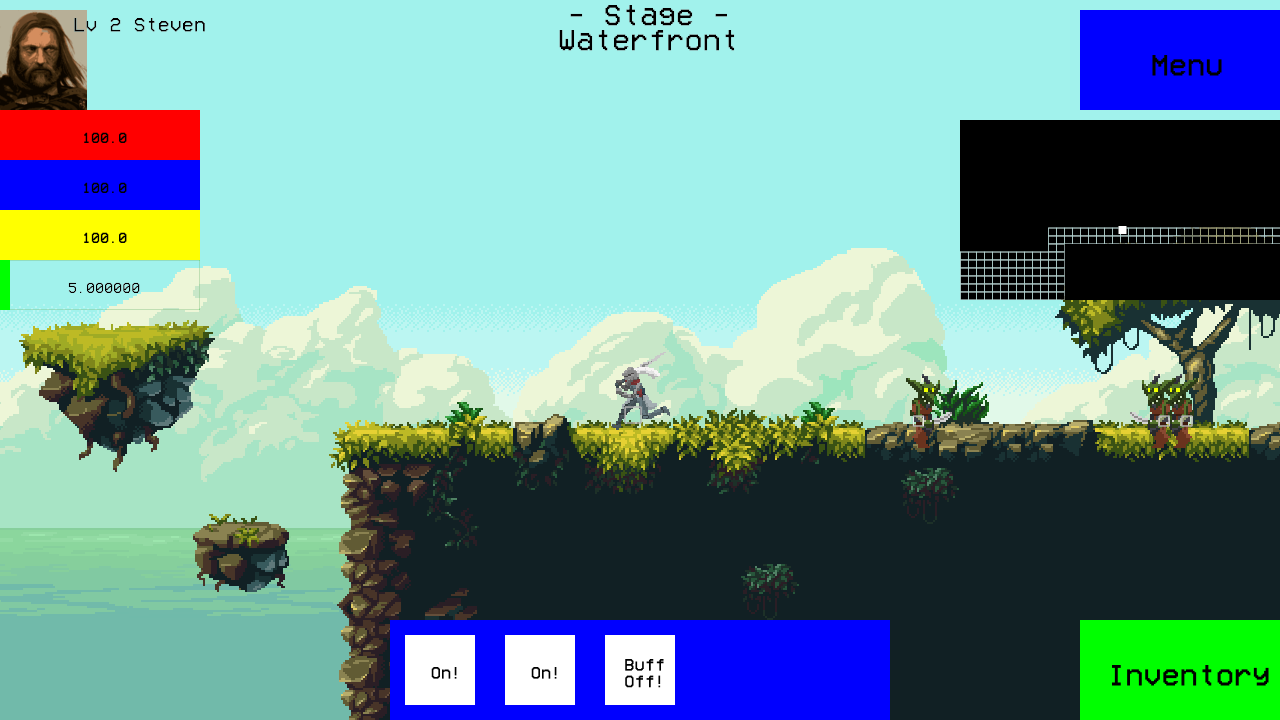
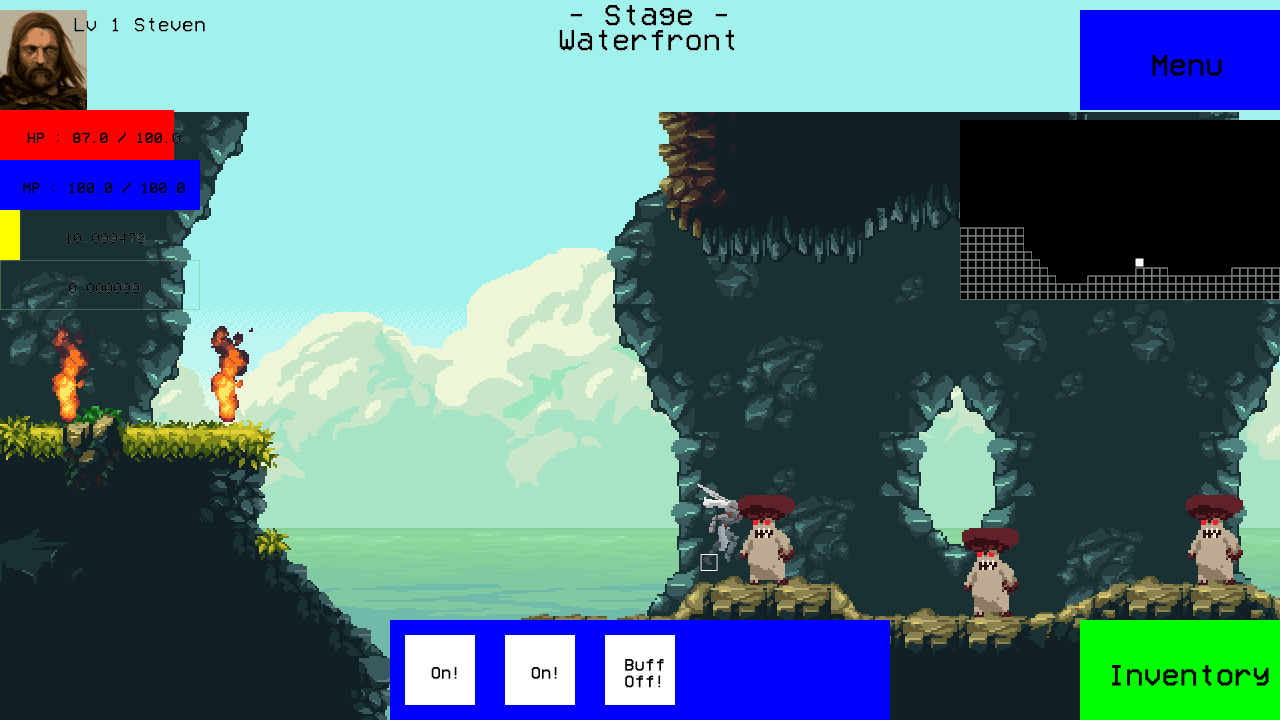
#academy
bug fix

diff --git a/OpenGL-portfolio/game/endstage.cpp b/OpenGL-portfolio/game/endstage.cpp
@@ -140,11 +140,11 @@ void loadEndStage()
 		fires[i] = fire;
 	}
 
-	mushrooms = (Monster**)malloc(sizeof(Monster*) * 1);
-	for (int i = 0; i < 1; i++)
+	mushrooms = (Monster**)malloc(sizeof(Monster*) * 3);
+	for (int i = 0; i < 3; i++)
 	{
 		Mushroom* mush = new Mushroom(i + 1);
-		mush->setPosition(iPointMake(MapTileWidth* 27, MapTileHeight * 25));
+		mush->setPosition(iPointMake(MapTileWidth* 27+(i*(MapTileWidth * 7)), MapTileHeight * 25));
 		mushrooms[i] = mush;
 	}
 
@@ -171,7 +171,7 @@ void freeEndStage()
 
 	free(fires);
 
-	for (int i = 0; i < 1; i++)
+	for (int i = 0; i < 3; i++)
 		delete mushrooms[i];
 
 	free(mushrooms);
@@ -204,7 +204,7 @@ void drawEndStage(float dt)
 		fires[i]->paint(dt, offMt);
 
 	//mushroom
-	for (int i = 0; i < 1; i++)
+	for (int i = 0; i < 3; i++)
 		((Mushroom*)mushrooms[i])->paint(dt, offMt, endStagemaptile, endStageMapTileNumX, endStageMapTileNumY);
 
 

diff --git a/OpenGL-portfolio/GameObject/Enermy/Mushroom.cpp b/OpenGL-portfolio/GameObject/Enermy/Mushroom.cpp
@@ -78,7 +78,7 @@ Mushroom::Mushroom(int number)
 	direction = 0;
 
 	behave = ObjectBehave::ObjectBehave_NULL;
-	setBehave(ObjectBehave::ObjectBehave_meleeAttack1, direction);
+	setBehave(ObjectBehave::ObjectBehave_idle, direction);
 }
 
 Mushroom::~Mushroom()
